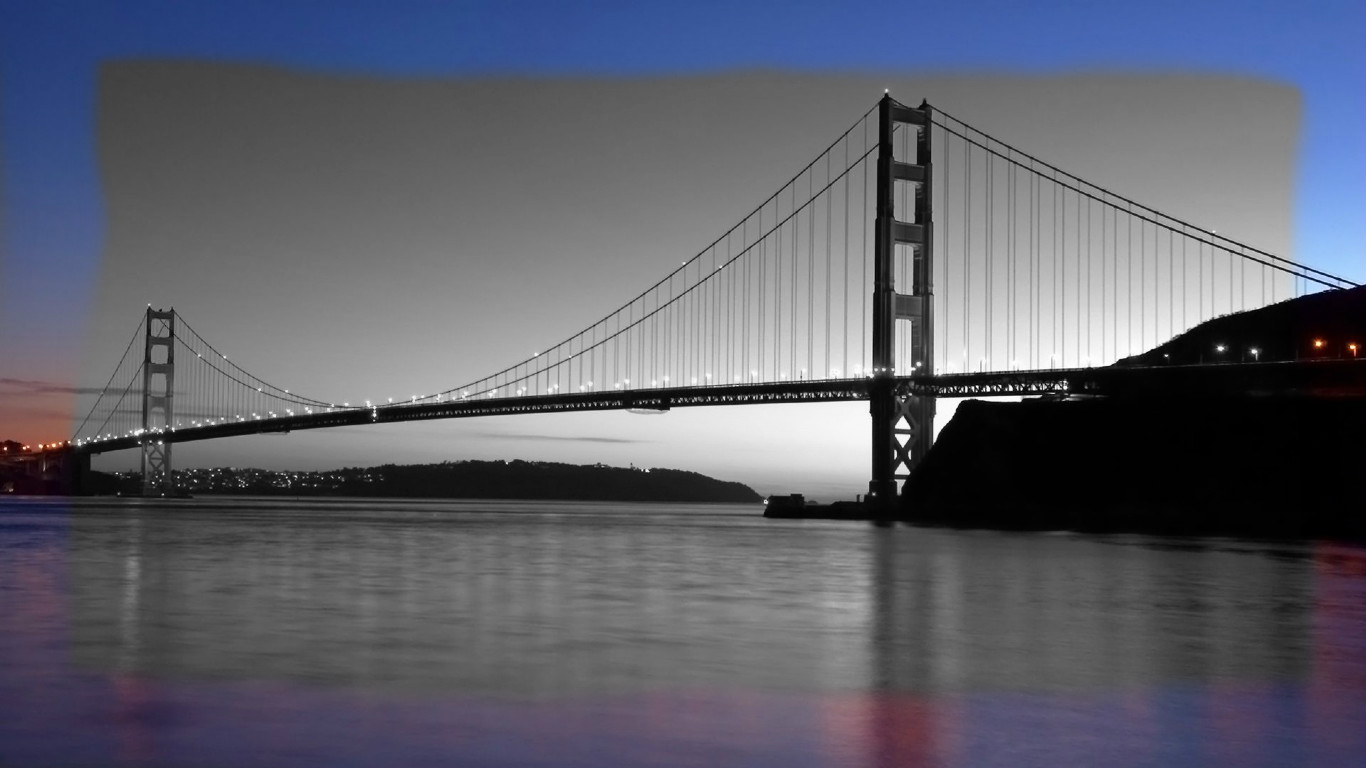
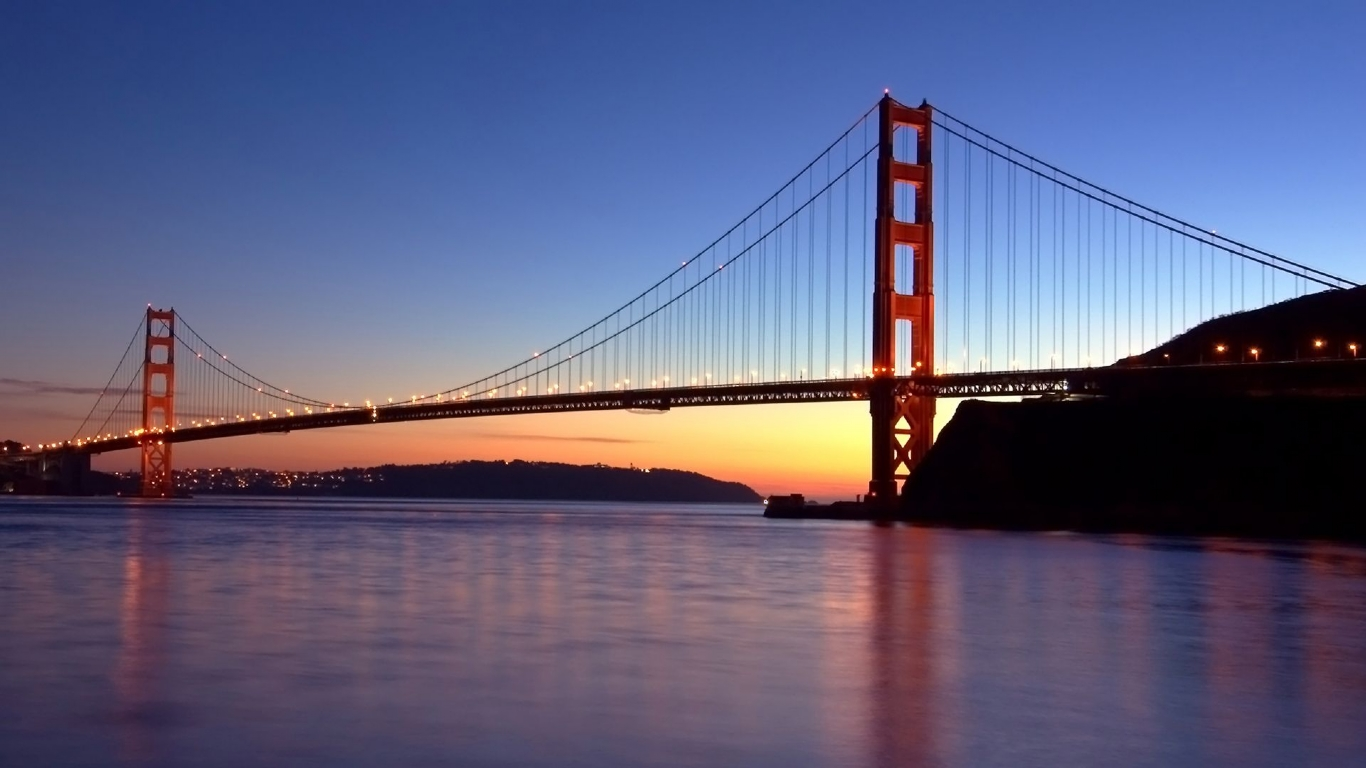
Version4 Filtering & background images

diff --git a/templates/city1.html b/templates/city1.html
@@ -1,5 +1,7 @@
 {% extends "city_template.html" %}
 {% block content %}
+<div class = "conatiner" style="{a style_func () a}" >
+
 <div class="row">
   <div class="col-sm-2">
 
@@ -41,10 +43,11 @@
 
 <div class="col-sm-10">
   <h3> {{city_value['City_name']}} </h3><br>
-  <p> {{city_value['City_details']}} </p><br>
+  <p class = "describe"> <b>{{city_value['City_details']}} </b></p><br>
   </div>
 
-  <div class="col-sm-2 " ng-show="true">
+
+  <div class="col-sm-2 " ng-show= {a select_value a}>
 
      <label for="sel1" ng-show = select_value>Sort By (select one):</label>
       <select class="form-control" id="sel1" ng-show = select_value ng-model="selectedName" ng-options="x for x in names">
@@ -53,24 +56,24 @@
       <h3> {a selectedName a}</h3>
 
 </div>
-<!--
-<div class="col-sm-2 " ng-show="true">
 
-   <label for="sel1" ng-show = filter_value> Sort By (select one):</label>
-    <select class="form-control" id="sel1" ng-show = filter_value ng-model="FilterName" ng-options="x for x in filters">
+<div class="col-sm-2 " ng-show= {a filter_value a}>
+
+   <label for="sel1" ng-show = filter_value> Filter Cuisine  By (select one):</label>
+    <select class="form-control" id="sel1" ng-show = filter_value ng-model="filters.value" ng-options="x for x in filters.values">
 
     </select>
     <h3> {a FilterName a}</h3>
 
 </div>
--->
+
 </div>
 
 
 
       <div class = "row">
       <div class = "col-sm-6 col-sm-offset-2" id = "display">
-        <div class="panel panel-primary" id ="panel" ng-repeat ="x in even | orderBy : selectedName " >
+        <div class="panel panel-primary" id ="panel" ng-repeat ="x in even | orderBy : selectedName | filter :filters.value " >
           <div class="panel-heading" id="mytext"> {a x.Name  a}</div>
           <div class="panel-body" id ="value">{a x.Date a} </div>
           <div class="panel-body" id ="value">{a x.Popular a} </div>
@@ -99,10 +102,13 @@ app.controller("myCtrl", function($scope, $rootScope) {
 
     console.log($event.target.id);
     if ($event.target.id == "events"){
+      $scope.select_value = true;
+      $scope.filters = {"value":" "};
+      $rootScope.filter_value = false ;
       $scope.even = [];
 
-      $scope.names = ["Date", "-Popular", "Address"];
-      $rootScope.select_value = "false"
+      $scope.names = ["Date", "-Popular"];
+
 
 
       {%for events in city_value['City_events']%}
@@ -117,20 +123,22 @@ app.controller("myCtrl", function($scope, $rootScope) {
   }
   if ($event.target.id == "Places"){
     $scope.even = [];
-    $scope.names = ["-Popular", "Address"];
-    $scope.select_value = "false"
-    $scope.filter_value = "true"
+    $scope.names = ["-Popular"];
+    $scope.select_value = true;
+    $scope.filters = {"value":" "};
+    $rootScope.filter_value = false ;
     {%for events in city_value['City_places']%}
-      $scope.even.push({'Name':'{{events[0]}}', 'Date':'{{events[1]}}','Popular':'{{events[2]}}','Address':'{{events[3]}}'} ); // Gets the event name
+      $scope.even.push({'Name':'{{events[0]}}', 'Popular':'{{events[1]}}','Date':'{{events[2]}}','Address':'{{events[3]}}'} ); // Gets the event name
     {% endfor %}
   console.log($scope.even);
 
 }
 if ($event.target.id == "Hotels"){
   $scope.even = [];
-  $scope.names = ["-Popular","Type", "Address"];
-  $scope.select_value = "false"
-  $rootScope.filter_value = "false"
+  $scope.names = ["-Popular","-Type"];
+  $scope.select_value = true;
+  $scope.filters = {"value":" "};
+  $rootScope.filter_value = false ;
   {%for events in city_value['City_hotels']%}
 $scope.even.push({'Name':'{{events[0]}}', 'Popular':'{{events[1]}}','Type':'{{events[2]}}','Address':'{{events[3]}}'} );
 {% endfor %}
@@ -138,10 +146,14 @@ $scope.even.push({'Name':'{{events[0]}}', 'Popular':'{{events[1]}}','Type':'{{ev
 }
 if ($event.target.id == "resturants"){
 $scope.even = [];
-$scope.names = ["-Popular","Type", "Address"];
-$scope.filters = ["American", "Indian", "Chinese", "Italian","Thai"]
-$scope.select_value = "false"
-$rootScope.filter_value = "true"
+$scope.names = ["-Popular","Type"];
+$scope.filters = {
+                  "value":"American",
+                  "values": ["American", "Indian", "Chinese", "Italian","Thai"]}
+$scope.select_value = true;
+$rootScope.filter_value = true;
+
+
 {%for events in city_value['City_resturants']%}
   $scope.even.push({'Name':'{{events[0]}}', 'Popular':'{{events[1]}}','Type':'{{events[2]}}','Address':'{{events[3]}}'} );
 {% endfor %}
@@ -149,7 +161,29 @@ $rootScope.filter_value = "true"
 
 }
 }
+
+$scope.style_func = function(){
+  {% if city_value['City_name'] == 'San Francisco'%}
+    var style1 = "background-image: url(../static/gg.jpg); background-size: cover;";
+    return style1;
+  {%endif %}
+  {% if city_value['City_name'] == 'San Jose'%}
+    var style1 = "background-image: url(../static/sj.jpg); background-size: cover;";
+    return style1;
+  {%endif %}
+  {% if city_value['City_name'] == 'San Diego'%}
+    var style1 = "background-image: url(../static/sd.jpg); background-size: cover;";
+    return style1;
+  {%endif %}
+  {% if city_value['City_name'] == 'Los Angeles'%}
+    var style1 = "background-image: url(../static/la.jpg); background-size: cover;";
+    return style1;
+  {%endif %}
+
+}
 });
+
+
 </script>
 
 

diff --git a/templates/city_template.html b/templates/city_template.html
@@ -25,27 +25,25 @@
         <span class="icon-bar"></span>
         <span class="icon-bar"></span>
       </button>
-      <a class="navbar-brand" href="/">Application</a>
+      <a class="navbar-brand" href="/">In N Around</a>
     </div>
     <div class="collapse navbar-collapse" id="myNavbar">
       <ul class="nav navbar-nav navbar-right">
-        <li><a href="/about">ABOUT</a></li>
+        <li><a href="/#about">ABOUT</a></li>
         <li><a href="/contact">CONTACT</a></li>
       </ul>
     </div>
   </div>
 </nav>
-<div class="jumbotron text-center cities">
+<div class="jumbotron text-center cities" ng-app="myApp" ng-controller="myCtrl" >
   <h1>{{name}}</h1>
   <p>Holiday Planner</p>
   </div>
 
+  {% block content %}
+  {% endblock %}
 
 
 
-	<div class = "conatiner cities_temp"  ng-app="myApp" ng-controller="myCtrl" >
-		{% block content %}
-		{% endblock %}
-	</div>
 </body>
 </html>

diff --git a/templates/template.html b/templates/template.html
@@ -22,11 +22,11 @@
         <span class="icon-bar"></span>
         <span class="icon-bar"></span>
       </button>
-      <a class="navbar-brand" href="/">Application</a>
+      <a class="navbar-brand" href="/">In N Around</a>
     </div>
     <div class="collapse navbar-collapse" id="myNavbar">
       <ul class="nav navbar-nav navbar-right">
-        <li><a href="/about">ABOUT</a></li>
+        <li><a href="#about">ABOUT</a></li>
         <li><a href="/contact">CONTACT</a></li>
 
 

diff --git a/templates/profile.html b/templates/profile.html
@@ -1,8 +1,8 @@
 {% extends "template.html" %}
 {% block content %}
   <div class="jumbotron text-center">
-    <h1>Application</h1>
-    <p>Holiday Planner</p>
+    <h1>In N Around</h1>
+
     <div class = "row">
       <div class = "col-sm-2 col-sm-offset-5">
         <form role="form" method = "post">
@@ -24,7 +24,7 @@
 
 
   <div class="container-fluid">
-    <h2>About Application</h2>
+    <h2 id = "about">About Application</h2>
     <h4>bla bla</h4>
     <p>bla bla..</p>
 

diff --git a/static/style.css b/static/style.css
@@ -110,8 +110,9 @@ padding: 80px 50px;
 	background-color :	#5a5a5a;
 	color :floral white;
 }
-.cities_temp{
-  background-color: #f6f6f6;
+.describe{
+font-size: 20px;
+font-family:monospace;
 
 
 }
